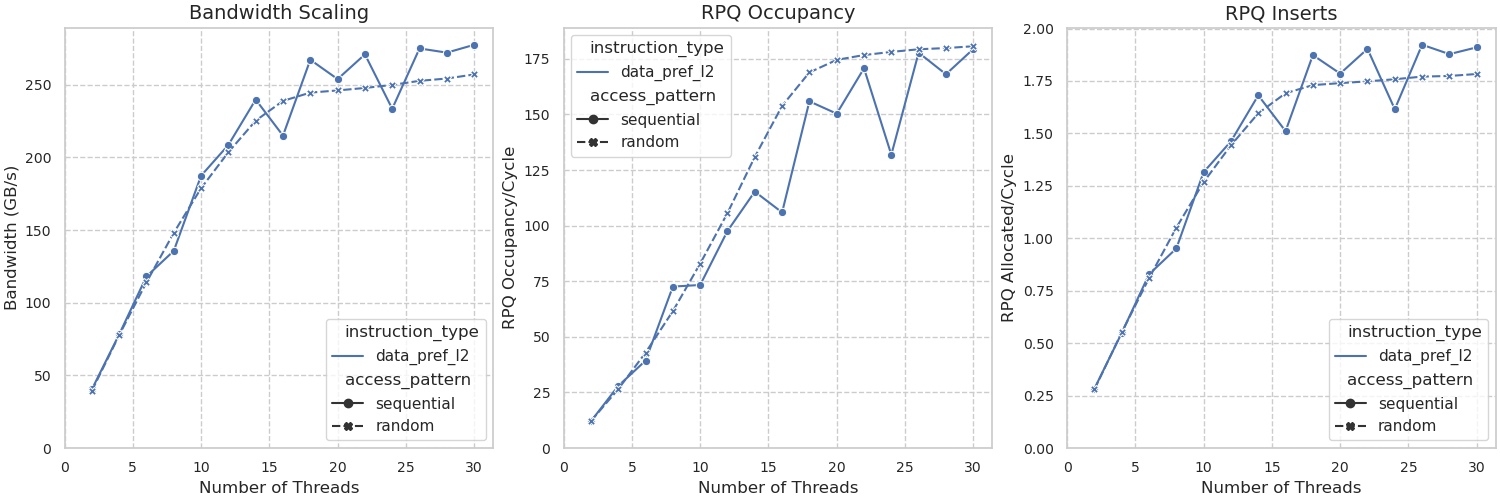
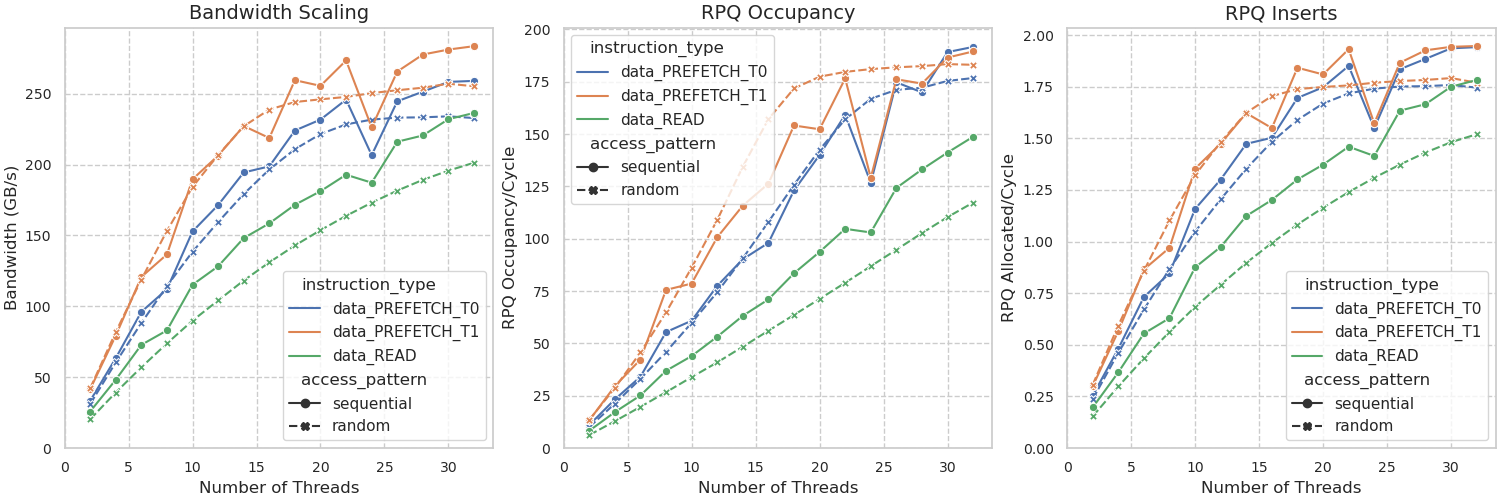
s

diff --git a/scripts/eurosys_2026/collect_rpq/run_rpq_test.py b/scripts/eurosys_2026/collect_rpq/run_rpq_test.py
@@ -8,95 +8,108 @@ import matplotlib.pyplot as plt
 import pandas as pd
 import seaborn as sns
 
-# --- Step 0: Compile both versions of rpq_test.c ---
-builds = {
-    "sequential": {
-        "compile_cmd": "gcc -O3 rpq_test.c -lnuma -o rpq_seq -DPREFETCH_T1",
-        "exe": "./rpq_seq",
-    },
-    "random": {
-        "compile_cmd": "gcc -O3 rpq_test.c -lnuma -o rpq_rand -DRANDOM_ACCESS -DPREFETCH_T1",
-        "exe": "./rpq_rand",
-    },
-}
-
-for mode, build in builds.items():
-    print(f"Compiling rpq_test.c for {mode} access...")
-    comp_proc = subprocess.run(
-        build["compile_cmd"], shell=True, capture_output=True, text=True
-    )
-    if comp_proc.returncode != 0:
-        print(f"Compilation failed for {mode} mode!")
-        print(comp_proc.stdout)
-        print(comp_proc.stderr)
-        exit(1)
-    print(f"Compilation succeeded for {mode} mode.\n")
+# Define the variants you want to test
+prefetch_variants = ["READ", "PREFETCH_T0", "PREFETCH_T1"]
 
 # Command template dynamically accepts the executable now
 cmd_template = "sudo /usr/bin/perf stat -e unc_m_rpq_inserts.pch0,unc_m_rpq_occupancy_pch0,unc_m_rpq_inserts.pch1,unc_m_rpq_occupancy_pch1 -- {exe} 10 {num_threads} 2>&1"
 
-results = []
+for variant in prefetch_variants:
+    print(f"\n{'=' * 50}")
+    print(f"Starting experiments for variant: {variant}")
+    print(f"{'=' * 50}")
 
-for mode, build in builds.items():
-    print(f"Running experiments for {mode} access...")
+    # --- Step 0: Compile both versions of rpq_test.c for the current variant ---
+    builds = {
+        "sequential": {
+            "compile_cmd": f"gcc -O3 rpq_test.c -lnuma -o rpq_seq_{variant} -D{variant}",
+            "exe": f"./rpq_seq_{variant}",
+        },
+        "random": {
+            "compile_cmd": f"gcc -O3 rpq_test.c -lnuma -o rpq_rand_{variant} -DRANDOM_ACCESS -D{variant}",
+            "exe": f"./rpq_rand_{variant}",
+        },
+    }
 
-    for num_threads in range(2, 32, 2):
-        cmd = cmd_template.format(exe=build["exe"], num_threads=num_threads)
-        proc = subprocess.run(cmd, shell=True, capture_output=True, text=True)
-        output = proc.stdout + proc.stderr  # combine stdout + stderr
+    for mode, build in builds.items():
+        print(f"Compiling rpq_test.c for {mode} access ({variant})...")
+        comp_proc = subprocess.run(
+            build["compile_cmd"], shell=True, capture_output=True, text=True
+        )
+        if comp_proc.returncode != 0:
+            print(f"Compilation failed for {mode} mode ({variant})!")
+            print(comp_proc.stdout)
+            print(comp_proc.stderr)
+            exit(1)
+        print(f"Compilation succeeded for {mode} mode ({variant}).\n")
 
-        # Initialize dictionary with the current access pattern mode
-        run_data = {"access_pattern": mode}
+    results = []
 
-        # Helper function to match and store value
-        def parse_field(pattern, field_name, cast=int, default=None):
-            m = re.search(pattern, output)
-            if m:
-                run_data[field_name] = cast(m.group(1))
-            else:
-                print(
-                    f"[ERROR] Could not find {field_name} in output for {mode} mode, num_threads={num_threads}"
-                )
-                run_data[field_name] = default
+    for mode, build in builds.items():
+        print(f"Running experiments for {mode} access ({variant})...")
 
-        # Parse program output (space-separated format)
-        parse_field(r"iter\s+(\d+)", "iter")
-        parse_field(r"num_threads\s+(\d+)", "num_threads")
-        parse_field(r"cachelines\s+(\d+)", "cachelines")
-        parse_field(r"duration\s+(\d+)", "duration")
-        parse_field(r"sec\s+([\d\.]+)", "sec", cast=float)
-        parse_field(r"bw\s+([\d\.]+)\s*GB", "bw", cast=float)
+        for num_threads in range(2, 34, 2):
+            cmd = cmd_template.format(exe=build["exe"], num_threads=num_threads)
+            proc = subprocess.run(cmd, shell=True, capture_output=True, text=True)
+            output = proc.stdout + proc.stderr  # combine stdout + stderr
 
-        perf_counter_names = [
-            "unc_m_rpq_inserts.pch0",
-            "unc_m_rpq_occupancy_pch0",
-            "unc_m_rpq_inserts.pch1",
-            "unc_m_rpq_occupancy_pch1",
-        ]
+            # Initialize dictionary with the current access pattern mode
+            run_data = {"access_pattern": mode}
 
-        # Parse only the specific perf counters
-        for counter_name in perf_counter_names:
-            # Regex: number (with optional commas) followed by whitespace + exact counter name
-            pattern = rf"([\d,]+)\s+{re.escape(counter_name)}"
-            m = re.search(pattern, output)
-            if m:
-                run_data[counter_name] = int(m.group(1).replace(",", ""))
-            else:
-                print(
-                    f"[ERROR] Could not find perf counter {counter_name} for {mode} mode, num_threads={num_threads}"
-                )
-                run_data[counter_name] = None
+            # Helper function to match and store value
+            def parse_field(pattern, field_name, cast=int, default=None):
+                m = re.search(pattern, output)
+                if m:
+                    run_data[field_name] = cast(m.group(1))
+                else:
+                    print(
+                        f"[ERROR] Could not find {field_name} in output for {mode} mode, num_threads={num_threads}"
+                    )
+                    run_data[field_name] = default
 
-        results.append(run_data)
+            # Parse program output (space-separated format)
+            parse_field(r"iter\s+(\d+)", "iter")
+            parse_field(r"num_threads\s+(\d+)", "num_threads")
+            parse_field(r"cachelines\s+(\d+)", "cachelines")
+            parse_field(r"duration\s+(\d+)", "duration")
+            parse_field(r"sec\s+([\d\.]+)", "sec", cast=float)
+            parse_field(r"bw\s+([\d\.]+)\s*GB", "bw", cast=float)
 
-# Save CSV
-print("\nSaving results to data.csv...")
-with open("data_pref_l2.csv", "w", newline="") as f:
-    # Ensure 'access_pattern' is the very first column in the CSV for readability
-    fieldnames = ["access_pattern"] + [
-        k for k in results[0].keys() if k != "access_pattern"
-    ]
-    writer = csv.DictWriter(f, fieldnames=fieldnames)
-    writer.writeheader()
-    writer.writerows(results)
-print("Data extraction complete.")
+            perf_counter_names = [
+                "unc_m_rpq_inserts.pch0",
+                "unc_m_rpq_occupancy_pch0",
+                "unc_m_rpq_inserts.pch1",
+                "unc_m_rpq_occupancy_pch1",
+            ]
+
+            # Parse only the specific perf counters
+            for counter_name in perf_counter_names:
+                # Regex: number (with optional commas) followed by whitespace + exact counter name
+                pattern = rf"([\d,]+)\s+{re.escape(counter_name)}"
+                m = re.search(pattern, output)
+                if m:
+                    run_data[counter_name] = int(m.group(1).replace(",", ""))
+                else:
+                    print(
+                        f"[ERROR] Could not find perf counter {counter_name} for {mode} mode, num_threads={num_threads}"
+                    )
+                    run_data[counter_name] = None
+
+            results.append(run_data)
+
+    # Save CSV for this specific variant
+    csv_filename = f"data_{variant}.csv"
+    print(f"\nSaving {variant} results to {csv_filename}...")
+
+    if results:
+        with open(csv_filename, "w", newline="") as f:
+            # Ensure 'access_pattern' is the very first column in the CSV for readability
+            fieldnames = ["access_pattern"] + [
+                k for k in results[0].keys() if k != "access_pattern"
+            ]
+            writer = csv.DictWriter(f, fieldnames=fieldnames)
+            writer.writeheader()
+            writer.writerows(results)
+        print(f"Data extraction complete for {variant}.\n")
+    else:
+        print(f"No results collected for {variant}. Skipping CSV generation.\n")